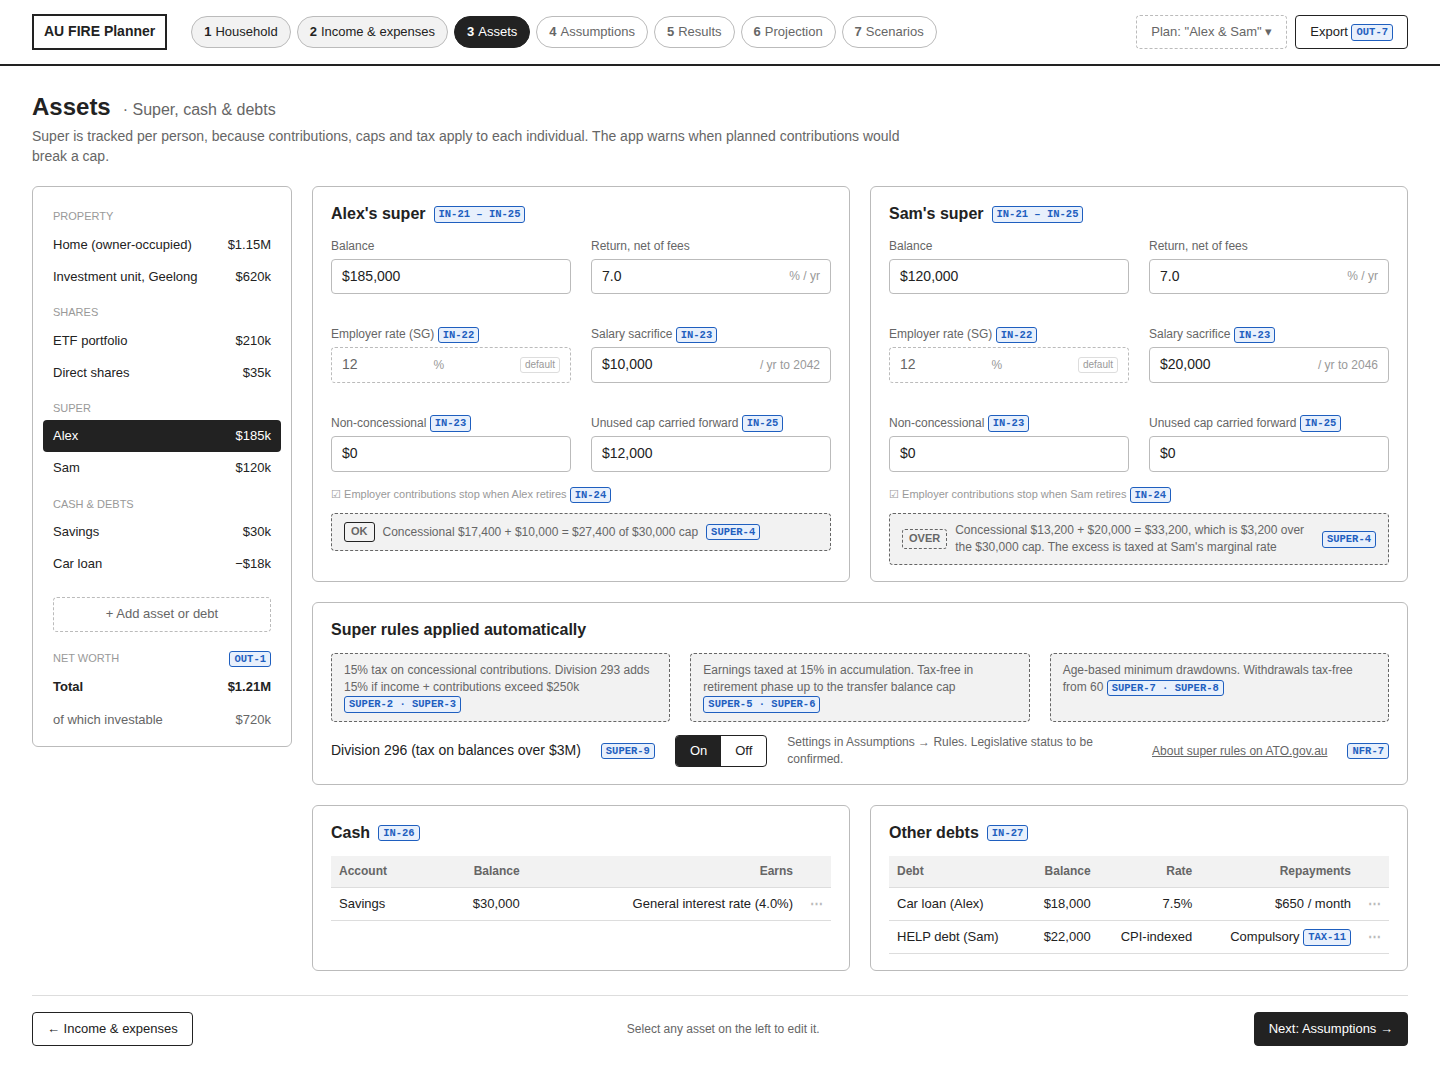
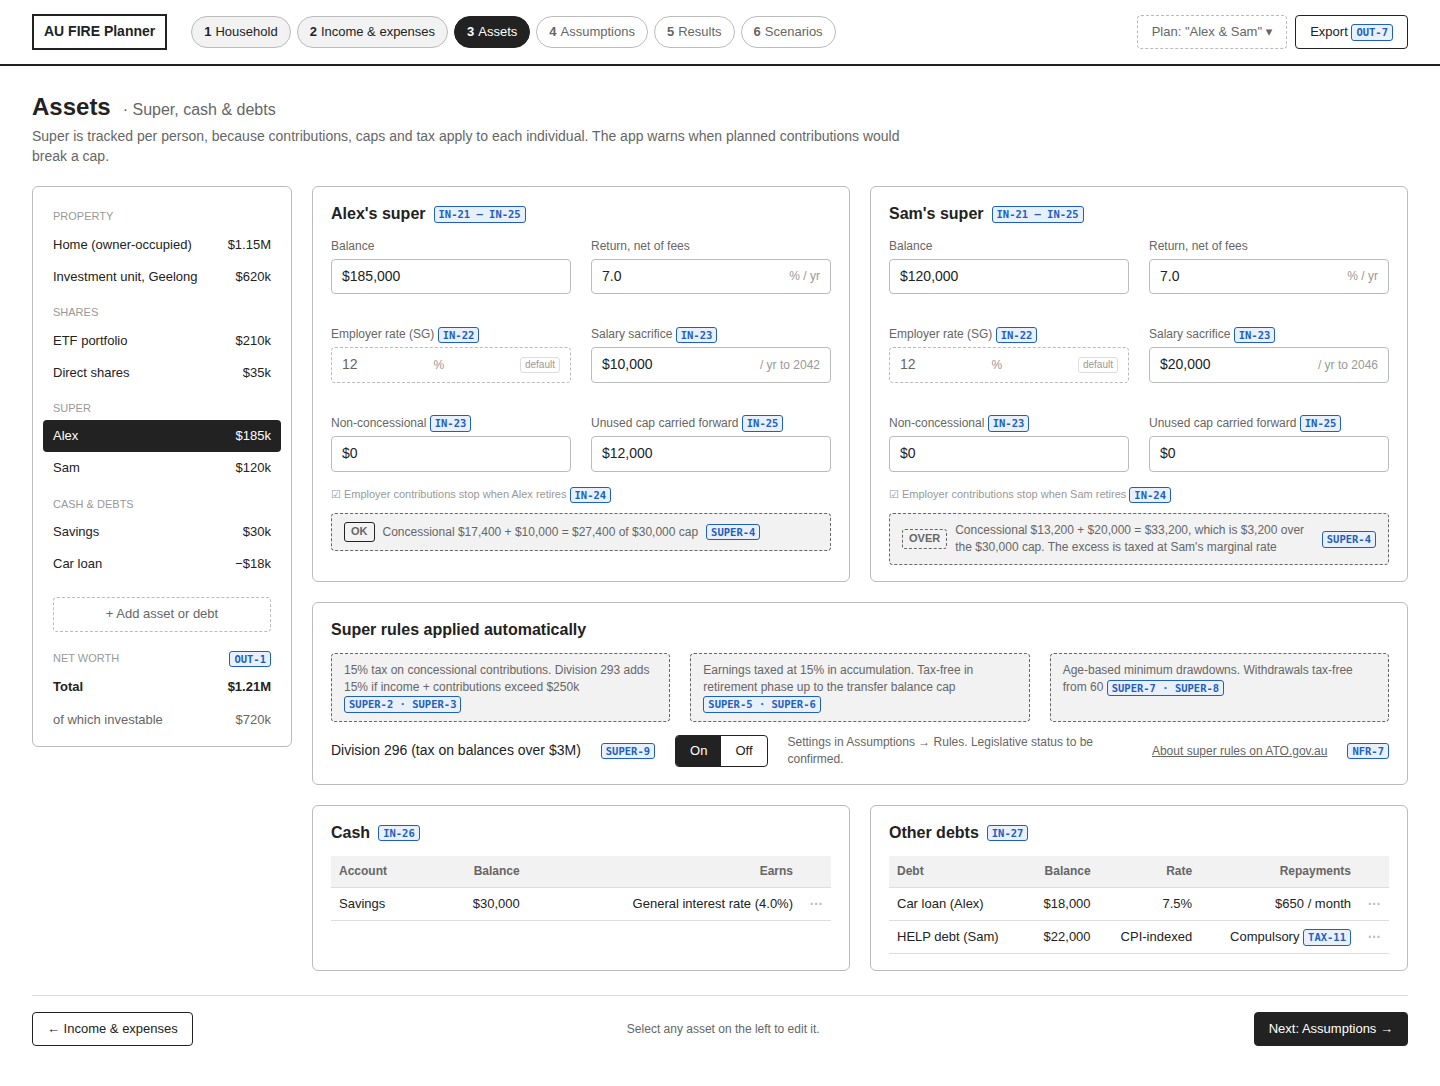
Requirements: show the year-by-year projection on the Results page
Ed found it strange that Results and Year by year were separate steps.
They answer one question ("does my plan work?") at two levels of detail,
and splitting them meant flipping between tabs to see the years behind a
headline number, with the today's/nominal toggle duplicated on both.

OUT-1 now says the projection sits on the same page as the results,
below the headline figures and charts. The mockups follow: 05 gains the
Year by year section (columns, 2042 row detail, shortfall behaviour) and
in-page links, 06 Projection is removed, Scenarios becomes step 6, and
the user flow, inputs panel and chart hover notes no longer point at a
separate Year by year screen. The table now uses the base plan, so its
figures line up with the tiles above it.

Claude-Session: https://claude.ai/code/session_013b5c4NobRKQt6cJmstQ6Gy

diff --git a/requirements/mockups/src/05-results.html b/requirements/mockups/src/05-results.html
@@ -28,6 +28,20 @@
 
   .trace { position: absolute; width: 300px; background: var(--paper); border: 1.5px solid var(--ink); border-radius: 4px; padding: 10px 12px; font-size: 12px; box-shadow: 4px 4px 0 rgba(0,0,0,.12); z-index: 2; }
   .trace table td { padding: 3px 4px; font-size: 12px; }
+
+  /* In-page links: the page is long now that it ends with the projection. */
+  .jump { display: flex; align-items: center; gap: 14px; margin: 0 0 18px; font-size: 13px; }
+  .jump .learn { font-size: 13px; }
+
+  /* Year by year section (OUT-1 – OUT-3), formerly its own step. */
+  .projection th, .projection td { padding: 6px 7px; font-size: 12.5px; }
+  .projection th { vertical-align: bottom; white-space: normal; }
+  .projection td.gap { text-align: center; color: var(--ink-faint); letter-spacing: 4px; }
+  .projection .ok { color: var(--ink-faint); }
+  .projection .flag { display: inline-block; border: 1.5px solid var(--ink); padding: 0 5px; border-radius: 3px; font-size: 11px; font-weight: 700; }
+  .projection tr.selected td { background: #e6e6e6; border-top: 2px solid var(--ink); border-bottom: 2px solid var(--ink); }
+  .projection tr.selected td:first-child { border-left: 4px solid var(--ink); }
+  .colgroup-toggle span { margin-right: 4px; }
 </style>
 </head>
 <body data-step="5">
@@ -37,12 +51,21 @@
     <div class="row" style="align-items: center; margin-bottom: 16px">
       <div class="col">
         <h1 class="page-title">Results</h1>
-        <p class="page-intro" style="margin: 0">Based on your inputs and assumptions. Everything recalculates as soon as you change an input.</p>
+        <p class="page-intro" style="margin: 0">Based on your inputs and assumptions. The headline numbers and charts come first, then every year of the plan. Everything recalculates as soon as you change an input.</p>
       </div>
       <span class="toggle"><span class="on">Today's dollars</span><span>Nominal</span></span> <span class="req">OUT-2</span>
-      <span class="btn">Year by year →</span>
       <span class="btn primary">Save as scenario</span>
     </div>
+
+    <nav class="jump">
+      <span class="muted">On this page:</span>
+      <span class="learn">Headline numbers</span>
+      <span class="learn">Milestones</span>
+      <span class="learn">FIRE</span>
+      <span class="learn">Coast FIRE</span>
+      <span class="learn"><b>Year by year ↓</b></span>
+      <span class="muted small">The today's / nominal toggle applies to the whole page, table included.</span>
+    </nav>
 
     <!-- Headline numbers -->
     <div class="grid-4" style="margin-bottom: 20px">
@@ -111,7 +134,7 @@
       </div>
 
     <!-- FIRE visualisations (FIRE-7). -->
-    <div class="section-title">FIRE <span class="req">FIRE-7</span> <span class="muted small" style="font-weight: 400">Hover any chart for exact values</span> <span class="learn" style="font-size: 12px; font-weight: 400">What is FIRE? <span class="req">NFR-7</span></span></div>
+    <div class="section-title">FIRE <span class="req">FIRE-7</span> <span class="muted small" style="font-weight: 400">Hover any chart for exact values. Click a year to jump to it in Year by year below.</span> <span class="learn" style="font-size: 12px; font-weight: 400">What is FIRE? <span class="req">NFR-7</span></span></div>
     <div class="grid-3">
       <div class="card">
         <h3>(a) Investable net worth vs FI number</h3>
@@ -232,10 +255,71 @@
       <div class="hint" style="margin-top: 6px">Voluntary contributions are the ETF contributions plus salary sacrifice. Choose an option to save it as a scenario.</div>
     </div>
 
+    <!-- Year by year (OUT-1 – OUT-3): the projection, on the same page as the results. -->
+    <div class="section-title">Year by year <span class="req">OUT-1</span> <span class="muted small" style="font-weight: 400">Every year of the plan, from today to 2089. Click a row to see how it was worked out.</span></div>
+
+    <div class="row" style="align-items: center; margin-bottom: 10px">
+      <span class="small muted">Columns:</span>
+      <span class="colgroup-toggle"><span class="chip dark">Income</span><span class="chip dark">Spending &amp; tax</span><span class="chip dark">Contributions &amp; withdrawals</span><span class="chip dark">Balances</span><span class="chip">Per-person tax</span><span class="chip">Per-asset balances</span></span>
+      <span style="flex: 1"></span>
+      <span class="toggle"><span class="on">All years</span><span>Milestones only</span></span>
+      <span class="btn">Export this table <span class="req">OUT-7</span></span>
+    </div>
+
+    <div class="card" style="padding: 0; overflow: hidden">
+      <table class="projection">
+        <tr>
+          <th>Year</th><th>Ages<br>Alex · Sam</th><th>Salaries</th><th>Rent &amp;<br>dividends</th><th>Spending<br><span class="req">EXP-*</span></th><th>Tax<br><span class="req">TAX-*</span></th>
+          <th>Into super</th><th>Withdrawn<br>outside · super</th><th>Outside super</th><th>Super<br>Alex · Sam</th><th>Home loan</th><th>Investable<br>net worth</th><th>Status <span class="req">OUT-3</span></th>
+        </tr>
+        <tr class="phase"><td colspan="13">Working · both earning</td></tr>
+        <tr><td>2026</td><td>34 · 32</td><td>$255k</td><td>$26k</td><td>$60k</td><td>$62k</td><td>$60k</td><td>—</td><td>$290k</td><td>$205k · $140k</td><td>$628k</td><td>$720k</td><td class="ok">✓</td></tr>
+        <tr><td>2027</td><td>35 · 33</td><td>$259k</td><td>$27k</td><td>$84k</td><td>$63k</td><td>$61k</td><td>—</td><td>$330k</td><td>$228k · $162k</td><td>$614k</td><td>$800k</td><td class="ok">✓</td></tr>
+        <tr><td colspan="13" class="gap">⋯</td></tr>
+        <tr><td>2041</td><td>49 · 47</td><td>$300k</td><td>$34k</td><td>$74k</td><td>$76k</td><td>$69k</td><td>—</td><td>$905k</td><td>$700k · $565k</td><td>$190k</td><td>$2.05M</td><td class="ok">✓</td></tr>
+        <tr class="phase"><td colspan="13">Bridge · both retired, super locked · funded from outside super only</td></tr>
+        <tr class="selected"><td>2042</td><td>50 · 48</td><td>—</td><td>$36k</td><td>$64k</td><td>$4k</td><td>—</td><td>$32k · —</td><td>$885k</td><td>$735k · $595k</td><td>$170k</td><td>$2.10M</td><td class="ok">✓</td></tr>
+        <tr><td>2043</td><td>51 · 49</td><td>—</td><td>$35k</td><td>$64k</td><td>$4k</td><td>—</td><td>$33k · —</td><td>$860k</td><td>$770k · $625k</td><td>$145k</td><td>$2.14M</td><td class="ok">✓</td></tr>
+        <tr><td colspan="13" class="gap">⋯</td></tr>
+        <tr><td>2053</td><td>61 · 59</td><td>—</td><td>$12k</td><td>$58k</td><td>$0</td><td>—</td><td>$46k · —</td><td>$95k</td><td>$1.20M · $1.02M</td><td>$0</td><td>$2.31M</td><td class="ok">✓</td></tr>
+        <tr class="phase"><td colspan="13">Super accessible · Sam from 2054, Alex from 2057 · retirement phase, minimum drawdowns apply</td></tr>
+        <tr><td>2054</td><td>62 · 60</td><td>—</td><td>$10k</td><td>$58k</td><td>$0</td><td>—</td><td>$10k · $48k</td><td>$85k</td><td>$1.26M · $1.03M</td><td>$0</td><td>$2.37M</td><td class="ok">✓</td></tr>
+        <tr><td colspan="13" class="gap">⋯</td></tr>
+        <tr><td>2089</td><td>97 · 95</td><td>—</td><td>$2k</td><td>$52k</td><td>$0</td><td>—</td><td>— · $50k</td><td>$20k</td><td>$410k · $520k</td><td>$0</td><td>$0.95M</td><td class="ok">✓</td></tr>
+      </table>
+    </div>
+
+    <div class="row" style="margin-top: 20px; align-items: stretch">
+      <!-- Drill-down for the selected row (NFR-1). -->
+      <div class="card col">
+        <h3>2042 in detail <span class="req">NFR-1</span></h3>
+        <div class="grid-3">
+          <table>
+            <tr><th>Tax</th><th>Alex</th><th>Sam</th></tr>
+            <tr><td>Rent (net, negatively geared)</td><td>−$9k</td><td>—</td></tr>
+            <tr><td>Dividends + franking</td><td>$14k</td><td>$14k</td></tr>
+            <tr><td>Capital gains (after 50% discount)</td><td>$7k</td><td>$7k</td></tr>
+            <tr><td><b>Tax payable</b></td><td><b>$0.4k</b></td><td><b>$3.6k</b></td></tr>
+          </table>
+          <table>
+            <tr><th>Where spending came from</th><th></th></tr>
+            <tr><td>Rent &amp; dividends (cash)</td><td>$36k</td></tr>
+            <tr><td>Sold ETF units (lowest gains first)</td><td>$28k</td></tr>
+            <tr><td>Cash buffer</td><td>$4k</td></tr>
+            <tr><td><b>Total</b></td><td><b>$68k</b></td></tr>
+          </table>
+          <div class="banner" style="display: block">Withdrawal order and tax rules come from <b>Assumptions</b>. Each figure links back to the input or rule behind it. <span class="learn">How CGT on shares works</span> <span class="req">NFR-7</span></div>
+        </div>
+      </div>
+    </div>
+
+    <div class="howto" style="margin-top: 14px"><b>When a year can't be funded:</b> a SHORTFALL banner appears at the top of Results, above the headline numbers, naming the years (e.g. "3 years can't be funded: 2051 – 2053") and linking down to them. Those rows show the unfunded amount, e.g. <b>−$6k</b>, in Status. <span class="req">OUT-3 · FIRE-4</span>
+      <br><b>Getting here:</b> clicking a year in a chart or the milestones, or "Year by year ↓" above, scrolls to the row and outlines it briefly (2042 here).</div>
+
     <div class="footer-nav">
       <span class="btn">← Assumptions</span>
       <span class="muted small">Click any number to see how it was calculated.</span>
-      <span class="btn primary">Year by year →</span>
+      <span class="btn primary">Compare scenarios →</span>
     </div>
   </div>
 </div>

diff --git a/requirements/mockups/src/00-user-flow.html b/requirements/mockups/src/00-user-flow.html
@@ -25,8 +25,8 @@
     <h1 class="page-title">User flow</h1>
     <p class="page-intro">
       How a user moves through the app. First-time users go through the four input steps in order.
-      Returning users land straight on their results. From the results they can drill into the
-      projection or save and compare scenarios. To change an input, they open the inputs panel without leaving the screen they're on.
+      Returning users land straight on their results, which end with the year-by-year projection, so
+      there's nothing to switch to. From the results they can save and compare scenarios. To change an input, they open the inputs panel without leaving the screen they're on.
     </p>
 
     <svg class="flow" viewBox="0 96 1376 630" width="1376">
@@ -72,18 +72,14 @@
       <text class="req" x="1250" y="442" text-anchor="middle">IN-10 – IN-13</text>
 
       <rect class="node hub" x="840" y="372" width="230" height="92" rx="8"/>
-      <text class="title" x="955" y="400" text-anchor="middle">5 · Results dashboard</text>
-      <text class="sub" x="955" y="418" text-anchor="middle">FI &amp; Coast FIRE numbers,</text>
-      <text class="sub" x="955" y="434" text-anchor="middle">milestones, charts</text>
-      <text class="req" x="955" y="452" text-anchor="middle">FIRE-* · COAST-* · OUT-4</text>
+      <text class="title" x="955" y="400" text-anchor="middle">5 · Results</text>
+      <text class="sub" x="955" y="418" text-anchor="middle">FI &amp; Coast FIRE numbers, charts,</text>
+      <text class="sub" x="955" y="434" text-anchor="middle">then the year-by-year table</text>
+      <text class="req" x="955" y="452" text-anchor="middle">FIRE-* · COAST-* · OUT-1 – OUT-4</text>
 
-      <rect class="node step" x="540" y="380" width="200" height="76" rx="6"/>
-      <text class="title" x="640" y="406" text-anchor="middle">6 · Projection</text>
-      <text class="sub" x="640" y="424" text-anchor="middle">year-by-year table</text>
-      <text class="req" x="640" y="442" text-anchor="middle">OUT-1 – OUT-3</text>
 
       <rect class="node step" x="220" y="380" width="220" height="76" rx="6"/>
-      <text class="title" x="330" y="406" text-anchor="middle">7 · Scenarios</text>
+      <text class="title" x="330" y="406" text-anchor="middle">6 · Scenarios</text>
       <text class="sub" x="330" y="424" text-anchor="middle">compare &amp; sensitivity</text>
       <text class="req" x="330" y="442" text-anchor="middle">OUT-5 · OUT-6</text>
 
@@ -120,8 +116,8 @@
       <!-- Inputs panel: edit any input without leaving the results or scenarios -->
       <rect class="node panel" x="590" y="226" width="270" height="76" rx="6"/>
       <text class="title" x="725" y="250" text-anchor="middle">Inputs panel</text>
-      <text class="sub" x="725" y="267" text-anchor="middle">drops down over Results, Projection</text>
-      <text class="sub" x="725" y="282" text-anchor="middle">or Scenarios; results update live</text>
+      <text class="sub" x="725" y="267" text-anchor="middle">drops down over Results</text>
+      <text class="sub" x="725" y="282" text-anchor="middle">or Scenarios; figures update live</text>
       <text class="req" x="725" y="296" text-anchor="middle">05b</text>
 
       <path class="edge" d="M1000,372 L1000,264 L862,264"/>
@@ -130,14 +126,9 @@
       <path class="edge loop" d="M790,226 L790,198"/>
       <text class="edge-label" x="800" y="216">open full step</text>
 
-      <!-- Drill-downs from the results hub -->
-      <path class="edge" d="M840,408 L742,408"/>
-      <path class="edge" d="M742,430 L838,430"/>
-      <text class="edge-label" x="752" y="398">year by year</text>
-      <text class="edge-label" x="760" y="448">back</text>
-
-      <path class="edge" d="M540,418 L442,418"/>
-      <text class="edge-label" x="458" y="408">compare</text>
+      <!-- From the results to scenarios -->
+      <path class="edge" d="M840,418 L442,418"/>
+      <text class="edge-label" x="600" y="408">compare</text>
 
       <path class="edge" d="M955,464 L955,588"/>
       <path class="edge" d="M955,660 L955,700 L330,700 L330,458"/>

diff --git a/requirements/mockups/src/06-scenarios.html b/requirements/mockups/src/06-scenarios.html
@@ -2,7 +2,7 @@
 <html lang="en">
 <head>
 <meta charset="utf-8">
-<title>07 · Scenarios</title>
+<title>06 · Scenarios</title>
 <link rel="stylesheet" href="wireframe.css">
 <style>
   .compare td, .compare th { text-align: left; white-space: normal; }
@@ -12,7 +12,7 @@
   .chart .strong { font-weight: 700; fill: #222; }
 </style>
 </head>
-<body data-step="7">
+<body data-step="6">
 <div class="screen">
   <header class="app-header"></header>
   <div class="page">
@@ -37,7 +37,7 @@
         <tr><td>Home loan paid off</td><td class="base">2047</td><td>2047</td><td>2047</td><td>2050</td><td></td></tr>
         <tr><td>Money lasts until</td><td class="base">2089+ ✓</td><td>2089+ after shortfall</td><td>2089+ ✓</td><td>2089+ ✓</td><td></td></tr>
         <tr><td>Investable net worth in 2089</td><td class="base">$1.52M</td><td>$1.36M</td><td>$1.18M</td><td>$1.41M</td><td></td></tr>
-        <tr><td></td><td class="base"><span class="learn">Open</span></td><td><span class="learn">Open</span> · <span class="learn">Year by year</span></td><td><span class="learn">Open</span></td><td><span class="learn">Open</span></td><td><span class="btn ghost">+ Add to comparison</span></td></tr>
+        <tr><td></td><td class="base"><span class="learn">Open</span></td><td><span class="learn">Open</span></td><td><span class="learn">Open</span></td><td><span class="learn">Open</span></td><td><span class="btn ghost">+ Add to comparison</span></td></tr>
       </table>
     </div>
 
@@ -90,7 +90,7 @@
     </div>
 
     <div class="footer-nav">
-      <span class="btn">← Year by year</span>
+      <span class="btn">← Results</span>
       <span class="muted small">Scenarios are saved on this device only.</span>
       <span class="btn">Export comparison <span class="req">OUT-7</span></span>
     </div>

diff --git a/requirements/mockups/src/header.js b/requirements/mockups/src/header.js
@@ -1,7 +1,7 @@
 /*
  * Builds the shared app header for every mockup screen.
  *
- * Each screen's <body> sets data-step to the step it represents (1-7).
+ * Each screen's <body> sets data-step to the step it represents (1-6).
  * This script fills the empty <header class="app-header"> with the logo,
  * the step navigation (marking earlier steps done and the current one
  * active) and the header actions: "Edit inputs" (from the results
@@ -17,7 +17,6 @@
     "Assets",
     "Assumptions",
     "Results",
-    "Projection",
     "Scenarios",
   ];
 
@@ -34,7 +33,7 @@
     })
     .join("");
 
-  // From the results onward (steps 5-7), inputs are edited in a panel that
+  // From the results onward (steps 5-6), inputs are edited in a panel that
   // drops down over the current screen (05b-inputs-panel.html), so the user
   // doesn't lose their place. data-panel="open" draws the button pressed.
   const panelOpen = document.body.dataset.panel === "open";

diff --git a/requirements/mockups/src/05b-inputs-panel.html b/requirements/mockups/src/05b-inputs-panel.html
@@ -86,7 +86,7 @@
 
   <!-- Results underneath, still visible and recalculated for the edit above. -->
   <div class="page underneath" style="padding-top: 18px">
-    <div class="howto" style="margin-bottom: 14px"><b>Inputs panel:</b> from Results, Year by year or Scenarios, "Edit inputs ▾" drops this panel over the page instead of sending the user back through the steps.
+    <div class="howto" style="margin-bottom: 14px"><b>Inputs panel:</b> from Results or Scenarios, "Edit inputs ▾" drops this panel over the page instead of sending the user back through the steps.
       The results stay in view and update as they type. Changed figures show what they were, so the effect of each edit is easy to see.</div>
 
     <div class="grid-4" style="margin-bottom: 20px">

diff --git a/requirements/mockups/src/03b-assets-shares.html b/requirements/mockups/src/03b-assets-shares.html
@@ -65,7 +65,7 @@
                 <text x="147" y="98" font-size="8.5" fill="#666">Contributed this year $30k</text>
               </svg>
               <div class="legend"><span><i></i>projected value (today's $)</span></div>
-              <div class="howto" style="margin-top: 6px"><b>Hover:</b> moving over any chart shows a guide line and a tooltip for that year. Clicking opens the year in Year by year.</div>
+              <div class="howto" style="margin-top: 6px"><b>Hover:</b> moving over any chart shows a guide line and a tooltip for that year. Clicking jumps to that year in the Year by year table on Results.</div>
             </div>
           </div>
         </div>

diff --git a/requirements/mockups/README.md b/requirements/mockups/README.md
@@ -19,7 +19,8 @@ They show one possible user flow and screen layout for the requirements in
   - **Tables:** click any cell to edit it in place. Hover a row for its ⋯
     menu (Duplicate, Delete). See screen 02.
   - **Charts:** hovering shows a guide line and a tooltip with that year's
-    values, and clicking opens the year in Year by year. See screen 03b.
+    values, and clicking jumps to that year in the Year by year table at the
+    bottom of Results. See screen 03b.
 
 ## Screens
 
@@ -33,10 +34,9 @@ They show one possible user flow and screen layout for the requirements in
 | 03c | [Assets: investment property](03c-assets-investment-property.png) | PROP-14 – PROP-17, TAX-5, TAX-6, FIRE-5 |
 | 03d | [Assets: super, cash & debts](03d-assets-super-cash-debts.png) | IN-21 – IN-27, SUPER-1 – SUPER-9 |
 | 04 | [Assumptions](04-assumptions.png) | IN-10 – IN-13, TAX-8, NFR-3 |
-| 05 | [Results dashboard](05-results.png) | FIRE-1 – FIRE-7, COAST-1 – COAST-7, OUT-2, OUT-4, NFR-1 |
-| 05b | [Inputs panel](05b-inputs-panel.png) | Editing any input from Results, Year by year or Scenarios without leaving the page |
-| 06 | [Year by year](06-projection.png) | OUT-1 – OUT-3 (shown for a scenario with a bridge-period shortfall) |
-| 07 | [Scenarios](07-scenarios.png) | OUT-5, OUT-6 |
+| 05 | [Results](05-results.png), ending with the year-by-year table | FIRE-1 – FIRE-7, COAST-1 – COAST-7, OUT-1 – OUT-4, NFR-1 |
+| 05b | [Inputs panel](05b-inputs-panel.png) | Editing any input from Results or Scenarios without leaving the page |
+| 06 | [Scenarios](06-scenarios.png) | OUT-5, OUT-6 |
 
 ### 00 · User flow
 ![User flow](00-user-flow.png)
@@ -62,17 +62,16 @@ They show one possible user flow and screen layout for the requirements in
 ### 04 · Assumptions
 ![Assumptions](04-assumptions.png)
 
-### 05 · Results dashboard
+### 05 · Results
+The headline numbers and charts, then every year of the plan on the same page.
+
 ![Results](05-results.png)
 
 ### 05b · Inputs panel
 ![Inputs panel open over the results](05b-inputs-panel.png)
 
-### 06 · Year by year
-![Year by year projection](06-projection.png)
-
-### 07 · Scenarios
-![Scenarios](07-scenarios.png)
+### 06 · Scenarios
+![Scenarios](06-scenarios.png)
 
 ## Editing the mockups
 
@@ -84,7 +83,7 @@ The PNGs are rendered from the HTML files in [`src/`](src/):
 | `wireframe.css` | Shared wireframe styles |
 | `header.js` | Shared app header and step navigation |
 | `assets-sidebar.js` | Shared asset list for the Assets screens (03a–03d) |
-| `render.js` | Renders the HTML files to PNGs in this folder |
+| `render.cjs` | Renders the HTML files to PNGs in this folder |
 
 To re-render after editing, you need Node.js and
 [Playwright](https://playwright.dev/) with Chromium:

diff --git a/requirements/REQUIREMENTS.md b/requirements/REQUIREMENTS.md
@@ -237,7 +237,7 @@ by ownership percentage.
 
 | ID | Requirement | Priority |
 | --- | --- | --- |
-| OUT-1 | The app produces a **year-by-year projection** from today to the end age. For each year it shows each person's age, income, expenses by category, tax paid per person, contributions, withdrawals, and the balance of each asset (each person's super, each share portfolio, cash, each property and its mortgage). | Must |
+| OUT-1 | The app produces a **year-by-year projection** from today to the end age. For each year it shows each person's age, income, expenses by category, tax paid per person, contributions, withdrawals, and the balance of each asset (each person's super, each share portfolio, cash, each property and its mortgage). It is shown on the same page as the results, below the headline figures and charts, so the user reads the summary and the years behind it together without switching screens. | Must |
 | OUT-2 | Every output value can be shown in **today's dollars** or **nominal dollars**. | Must |
 | OUT-3 | The projection flags any year in which expenses can't be met, especially shortfalls during the bridge period, when super is still locked. | Must |
 | OUT-4 | The app reports the key milestones: FI number, FI age, Coast FIRE age, each person's preservation age, the age super converts to retirement phase, the year each mortgage is paid off, and the age at which money runs out (if it does). | Must |
